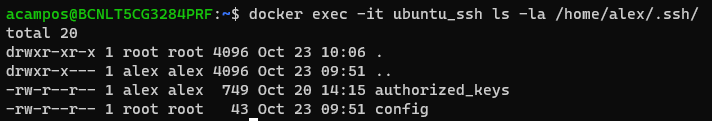
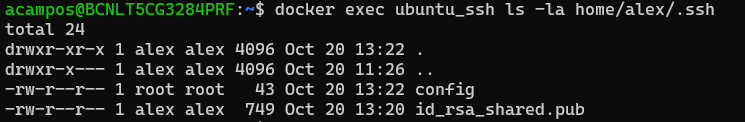
The first functional version for centos ssh server

diff --git a/README.md b/README.md
@@ -2,122 +2,93 @@
 
 ## Requirements
 - Docker Installed
-- Docker Compose Installed
 
 ## Content
 1. [Generate SSH RSA key pair](#1-generate-ssh-rsa-key-pair)
 
-2. [Build the ubuntu:ssh image](#2-build-the-ubuntussh-image)
+2. [Build the centos:ssh image](#2-build-the-centosssh-image)
     - 2.1 [Dockerfile](#21-dockerfile)
     - 2.2 [Building the image](#22-building-the-image)  
-3. [Run the container using docker compose](#3-run-the-container-using-docker-compose)
+3. [Run the container using docker run](#3-run-the-container-using-docker-run)
 4. [Connect via ssh with the container ssh server](#4-connect-via-ssh-with-the-container-ssh-server)
 
-## 1. Generate SSH RSA key pair (only if you don't have one yet)
+## 1. Generate SSH RSA key pair
 SSH protocol can use public key cryptography for authenticating hosts and users. This configuration improves security by avoiding the need to have password stored in files, and eliminated the possibility of a compromised server stealing the user’s password. For that reason, we should generate SSH public and private key on our client and authorize them into the host. We have choosen SSH RSA algorithm to encrypt the password, but there are others like ed25519.
 
-1. Access / Create the `~/.ssh` folder:
+:one: Access / Create the `~/.ssh` folder:
 ```bash
 cd ~/.ssh
 ```
-2. Create the SSH RSA key pair:
+:two: Create the SSH RSA key pair:
 ```bash
-ssh-keygen -t rsa -b 4096 -C your_user
+ssh-keygen -t rsa -b 4096 -f ./id_rsa_shared
 ```
+> :paperclip: **NOTE:** To add more security, it will ask you to create a password for the keys, but if you don't want, just entre to keep it empty.
 
->:paperclip: **NOTE:** There is no need to copy the configuration into the sever because we are going to share it using a volume when running the container.
+It should have generated two keys, the public one and the private one:
+![im5.png](pictures/im5.png)
 
-## 2. Build the ubuntu:ssh image
+## 2. Build the centos/systemd:ssh Image
 ### 2.1 Dockerfile
-To run the ssh service inside a container, we have choosen the basic [ubuntu docker image](https://hub.docker.com/_/ubuntu/). We have configured the image in order to run the ssh service inside it, and to have the correct files to authenticate the ssh connectivity.
+To run the ssh service inside a container, we have choosen the basic [centos/systemd docker image](https://hub.docker.com/r/centos/systemd/). We have configured the image in order to run the ssh service inside it, and to have the correct files to authenticate the ssh connectivity following this [GitHub Project](https://gist.github.com/lenchevsky/7eba11bd491e70105de3600ec9ec1292)
+
+>:paperclip: **NOTE:** We have choosen this image because it has already installed the systemd service, we can also use the `centos:7` image and install in the Dockerfile the `systemd` using `yum install -y systemd`
 
 To check the modifications take a look into the [Dockerfile](Dockerfile).
 
-I will highlight 2 steps:
+I will highlight:
 - We modify the configuration of SSH to enable `RSAAuthentication` and `PubkeyAuthentication` while disable `PasswordAuthentication`. Also we configure it to ignore `Rhosts` and permissions to the folder:
 ```Dockerfile
-RUN chown -R ${USER}:${USER} /home/${USER}/.ssh &&\
-    echo "Host remotehost\n\tStrictHostKeyChecking no\n" >> /home/${USER}/.ssh/config &&\
-    echo "RSAAuthentication yes\nPubkeyAuthentication yes\nPasswordAuthentication no\nIgnoreRhosts yes" >> /etc/ssh/sshd_config
-```
-- We add a symbolic link in the file `/home/${USER}/.ssh/authorized_keys` of the container pointing to the content of the secret `user_ssh_rsa` which is stored under `/run/secrets/user_ssh_rsa` because it is configured in [docker-compose.yaml](docker-compose.yaml) like secret inside the container
-```Dockerfile
-RUN ... ln -s /run/secrets/user_ssh_rsa /home/${USER}/.ssh/authorized_keys
+RUN sed -ri 's/UsePAM yes/UsePAM no/g' /etc/ssh/sshd_config &&\
+    echo "RSAAuthentication yes" >> /etc/ssh/sshd_config &&\
+    sed -ri 's/PasswordAuthentication yes/PasswordAuthentication no/g' /etc/ssh/sshd_config &&\
+    sed -ri 's/#IgnoreRhosts no/IgnoreRhosts yes/g' /etc/ssh/sshd_config
 ```
 
 ### 2.2 Building the image
-Build the docker image:
+Pull the image centos/systemd:
 ```bash
-docker build -t ubuntu:ssh .
+docker pull centos/systemd:latest
+```
+Build the docker image with the default user and password defined:
+```bash
+docker build -t centos:ssh .
 ```
 - user: alex
 - password: securepassword
 
 > :paperclip: **NOTE:** To create a custom user and password run the `docker build` command using `--build-arg` and modifying `custom_user` and `custom_password`:
 >```bash
-> docker build -t ubuntu:ssh --build-arg USER=custom_user --build-arg PSWD=custom_password
+> docker build -t centos:ssh --build-arg USER=custom_user --build-arg PSWD=custom_password
 >```
 
-## 3. Run the container using docker compose
-We have generated a very simple [docker-compose.yaml](docker-compose.yaml) file configuring a **secret** inside the container with the content of the local file `~/.ssh/id_rsa_shared` and consumed by `~/.ssh/authorized_keys` file of the docker server.
-
-```yaml
-container:
-    secrets:
-      - user_ssh_rsa
-
-secrets:
-  user_ssh_rsa:
-    file: ~/.ssh/id_rsa_shared.pub
-```
-
-Also, we are using an [.env](.env) to configure [docker-compose.yaml](docker-compose.yaml).
-
->:paperclip: **NOTE:** by default, docker compose uses the `.env` file for the configuration without use any flag, if we want to use another file we can use it:
->```bash
-> docker compose --env-file my-conf-file up
->```
-
->:warning: **WARNING:** docker compose uses your linux env variables, and linux env vars take precedence over the ones configured in any file. To check the configuration taken by docker compose:
->```bash
-> docker compose config
->```
-
-:one: Run the container (as daemon) using `docker compose` with the `-env` configuration file:
+## 3. Run the container using docker run 
+:one: Run the container (in daemon) using docker run:
 ```bash
-docker compose up -d
+docker run --rm -d --privileged=true --name centos_ssh -p 2222:22 -v ~/.ssh/id_rsa_shared.pub:/home/alex/.ssh/authorized_keys:ro centos:ssh
 ```
-:two: Check the container logs, you should see:
 
-![im6.png](pictures/im6.png)
-
-:three: Check the container is running:
+:two: Check the container is running:
 ```bash
 docker ps
 ```
-![im1.png](pictures/im1.png)
 
-:four: Check the contents of the `/home/$user/.ssh/` folder
+:three: Check the contents of the `/home/$user/.ssh/` folder
 ```bash
-docker exec ubuntu_ssh ls -la /home/alex/.shh
+docker exec centos_ssh ls -la /home/alex/.shh
 ```
-![im7.png](pictures/im7.png)
 
-:five: Check the container is running the ssh service
+:four: Check the container is running the ssh service
 ```bash
-docker exec ubuntu_ssh service ssh status
+docker docker exec centos_ssh systemctl status sshd.service
 ```
-![im2.png](pictures/im2.png)
 
-:six: Check the connectivity using `ping`
+:five: Check the connectivity using `ping`
 ```bash
 ping -c5 localhost -p 2222
 ```
-![im4.png](pictures/im4.png)
-
 
 ## 4. Connect via ssh with the container ssh server
-
 By default, ssh check the following keys:
 - `~/.ssh/id_ecdsa`
 - `~/.ssh/id_ecdsa_sk`
@@ -134,10 +105,8 @@ So run the following command to stablish connection:
 ```bash
 ssh -oPort=2222 -i ~/.ssh/id_rsa_shared alex@localhost
 ```
-![im8.png](pictures/im8.png)
 
 >:paperclip: If you run the command without specifying user, ssh will take your Linux current user, in my case `acampos`:
-> ![im10.png](pictures/im10.png)
 
 If you use a different user:
 ```bash
@@ -150,20 +119,19 @@ ssh -oPort=2222 -i ~/.ssh/id_rsa_shared custom_user@localhost
 > ![im9.png](pictures/im9.png)
 >
 > This message appears when you try and connect over SSH to a remote server, and there's a mismatch between the server's public key and what's stored on your local machine.
-> To solve it, you shoul run the following command to reset the host configuration:
+> To solve it, you should run the following command to reset the host configuration:
 > ```bash
 >ssh-keygen -f "/home/acampos/.ssh/known_hosts" -R "[localhost]:2222"
 >```
 > And run again the ssh command:
 > ```bash
->ssh -oPort=2222 -i ~/.ssh/id_rsa_shared alex@localhost
+>ssh -oPort=2222 -i ~/.ssh/id_rsa_shared custom_user@localhost
 >```
-> You can configure your local host to skip this message and continue with ssh connection, just add to the `~/.ssh/config` file with the following lines:
+> For centos you cannot disable in the server the `StringHostKeyChecking`, so it is very useful to configure your local host to skip this message and continue with ssh connection, just add to the `~/.ssh/config` file with the following lines:
 >```config
 >Host localhost
 >    StrictHostKeyChecking no
 >```
-> Also, you can run the command with the following flag to skip always the keychecking:
->```bash
->ssh -oPort=2222 -o StrictHostKeyChecking=no -i ~/.ssh/id_rsa_shared alex@localhost
->``` 
+
+## 5. Why centos is not using docker-compose
+With centos I do not use docker compose because I encounter a bug, so when I tried to mount a volume or a secret using docker compose with privileged access (needed to start de systemcl and the ssh service) on the container, it does not work, and I don't find any post or foro where I can check for this problem-
